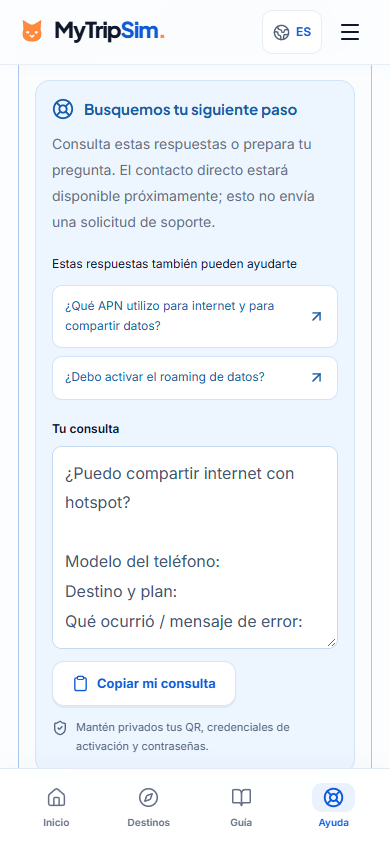
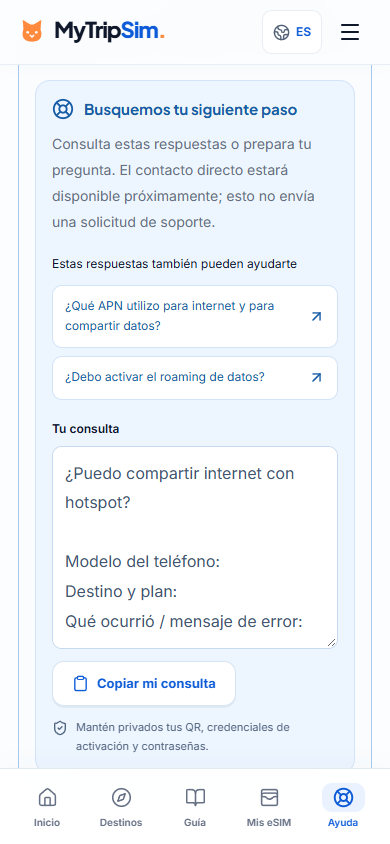
fix: preserve locale context and finalize visual previews

diff --git a/src/components/site-navigation.tsx b/src/components/site-navigation.tsx
@@ -2,7 +2,7 @@
 
 import { useState } from "react";
 import Link from "next/link";
-import { usePathname } from "next/navigation";
+import { usePathname, useSearchParams } from "next/navigation";
 import { ArrowRight, Globe2, Menu, X } from "lucide-react";
 import {
   dictionaries,
@@ -17,11 +17,12 @@ import { experienceCopy } from "@/lib/experience-copy";
 
 export function LanguageSwitcher({ locale }: { locale: Locale }) {
   const pathname = usePathname();
+  const query = useSearchParams().toString();
   const target = locale === "en" ? "es" : "en";
   return (
     <a
       className="language-switch"
-      href={equivalentPath(pathname, target)}
+      href={`${equivalentPath(pathname, target)}${query ? `?${query}` : ""}`}
       onClick={(event) => {
         event.currentTarget.href = `${equivalentPath(pathname, target)}${window.location.search}${window.location.hash}`;
       }}

diff --git a/tests/e2e/journey.spec.ts b/tests/e2e/journey.spec.ts
@@ -103,6 +103,9 @@ test("preview pages protect plan identity, locale context and indexing", async (
     expect(await response.text()).toContain('content="noindex, nofollow"');
   }
   await page.goto(`/en/checkout?destination=japan&plan=${encoded}`);
+  await expect(
+    page.getByRole("link", { name: "Change language: Español" }).first(),
+  ).toHaveAttribute("href", `/es/compra?destination=japan&plan=${encoded}`);
   await page
     .getByRole("link", { name: "Change language: Español" })
     .first()

diff --git a/docs/superpowers/plans/2026-10-24-visual-journey.md b/docs/superpowers/plans/2026-10-24-visual-journey.md
@@ -1,6 +1,6 @@
 # Visual traveler journey implementation plan
 
-> **For agentic workers:** REQUIRED SUB-SKILL: Use superpowers:executing-plans to implement this plan task-by-task. Steps use checkbox (`- [ ]`) syntax for tracking.
+> **For agentic workers:** REQUIRED SUB-SKILL: Use superpowers:executing-plans to implement this plan task-by-task. Steps use checkbox (`- [x]`) syntax for tracking.
 
 **Goal:** Complete a connected bilingual visual journey from destination and plan selection through checkout preview, example eSIM management, installation and a separate administration preview.
 
@@ -32,26 +32,26 @@
 
 **Files:** `src/lib/experience-routes.ts`, `src/lib/experience-copy.ts`, `src/components/experience/plan-detail.tsx`, `src/components/experience/destination-overview.tsx`, `src/app/[locale]/plan/[slug]/[planId]/page.tsx`, existing catalog components and `src/styles/experience.css`.
 
-- [ ] Define localized paths and selected-plan route without putting the full plan catalog in a client bundle.
-- [ ] Add destination section navigation, allowance/duration range and honest coverage/activation details.
-- [ ] Keep quick-look dialog and add a full detail link; build a travel-pass summary and expandable conditions.
-- [ ] Verify exact plan identity, malformed paths, fixed/daily labels and regional unknowns.
+- [x] Define localized paths and selected-plan route without putting the full plan catalog in a client bundle.
+- [x] Add destination section navigation, allowance/duration range and honest coverage/activation details.
+- [x] Keep quick-look dialog and add a full detail link; build a travel-pass summary and expandable conditions.
+- [x] Verify exact plan identity, malformed paths, fixed/daily labels and regional unknowns.
 
 ## Task 2: Checkout preview and eSIM views
 
 **Files:** `src/components/experience/checkout-preview.tsx`, `src/components/experience/esim-wallet.tsx`, `src/components/experience/install-guide.tsx`, `src/components/experience/shared.tsx`, `src/components/experience/experience-page.tsx`, `src/lib/demo-esims.ts`, generic localized page route and navigation.
 
-- [ ] Add connected review/payment-layout/completion preview using read-only fictional buyer information and no payment entry.
-- [ ] Add wallet status filters and details, sample allowance meter, non-scannable QR illustration and installation links.
-- [ ] Add selectable iPhone/Android instruction views referencing confirmed provider FAQ; activation timing remains per-plan.
-- [ ] Add recoverable loading/empty/error examples and keyboard-friendly interactions.
-- [ ] Verify no purchase/provider requests, no payment fields or real identifiers, and successful connected navigation.
+- [x] Add connected review/payment-layout/completion preview using read-only fictional buyer information and no payment entry.
+- [x] Add wallet status filters and details, sample allowance meter, non-scannable QR illustration and installation links.
+- [x] Add selectable iPhone/Android instruction views referencing confirmed provider FAQ; activation timing remains per-plan.
+- [x] Add recoverable loading/empty/error examples and keyboard-friendly interactions.
+- [x] Verify no purchase/provider requests, no payment fields or real identifiers, and successful connected navigation.
 
 ## Task 3: Administration and polish
 
 **Files:** `src/components/experience/admin-preview.tsx`, documentation, tests and capture/audit scripts.
 
-- [ ] Build a separate clearly labeled admin preview with destination search, plan review, content/FAQ and fictional order views, without claiming access control.
-- [ ] Verify bilingual navigation, responsive layouts, touch targets and scoped axe checks on all new screens and states.
-- [ ] Run build, lint, typecheck, unit/browser tests and secret scan; capture/review desktop/mobile screens.
-- [ ] Commit authorized changes, push to the existing repository and confirm Vercel deployment.
+- [x] Build a separate clearly labeled admin preview with destination search, plan review, content/FAQ and fictional order views, without claiming access control.
+- [x] Verify bilingual navigation, responsive layouts, touch targets and scoped axe checks on all new screens and states.
+- [x] Run build, lint, typecheck, unit/browser tests and secret scan; capture/review desktop/mobile screens.
+- [x] Commit authorized changes, push to the existing repository and confirm Vercel deployment.

diff --git a/docs/verification.md b/docs/verification.md
@@ -58,3 +58,15 @@ The production build, ESLint, TypeScript and five catalog/content tests passed. 
 The refreshed responsive/axe audit includes the expanded hotspot answer and “more help” states at 360 and 1440px. It returned no findings. Visual review covered [mobile answer](previews/faq-mobile-answer.png), [mobile next steps](previews/faq-mobile-help.png), [desktop answer](previews/faq-desktop-answer.png) and [desktop next steps](previews/faq-desktop-help.png).
 
 The user confirmed there is no support contact or connected Supabase yet. Votes remain in the browser, with clear wording that they are not sent to the team. More help provides related answers and a copyable question without creating support tickets. No contact details, activation secrets or analytics backend were invented. The image sync also picked up the five additional user-supplied banners for Argentina, Brazil, Colombia, Panama and Peru.
+
+## Connected visual journey — 2026-10-24
+
+The visual skeleton adds full plan details, a review/payment/confirmation preview, a fictional three-trip wallet and detail views, iPhone/Android installation steps, and a separate public administration sample. Plan identity and locale query context are preserved. Checkout/account/admin screens are noindex and never request payment details, submit personal data, create orders or provision eSIMs.
+
+Validation: production build, ESLint, TypeScript, formatting and six unit tests passed. The final 34 desktop/mobile browser scenarios passed. Added coverage includes the end-to-end visual journey without mutation requests, read-only traveler placeholders, confirmation wording, wallet filters/recovery states, installation device tabs, administration search, unknown/mismatched plan 404s, translated query context, noindex metadata and new-screen overflow checks from 320 to 1440px.
+
+The extended audit checks thirteen routes at 320, 360, 390, 430, 768, 1024 and 1440px. Selected axe A/AA checks at 360 and 1440px include payment/confirmation and wallet empty/loading/error states. Initial findings in mobile administration sizing and wallet accessible filter names were corrected; the repeated audit returned no findings.
+
+Reviewed previews: [plan detail](previews/plan-detail-mobile.png), [checkout](previews/checkout-desktop.png), [payment layout](previews/checkout-mobile-payment.png), [confirmation](previews/checkout-mobile-confirmation.png), [wallet](previews/wallet-desktop.png), [eSIM detail](previews/esim-detail-mobile.png), [installation](previews/install-mobile.png) and [administration](previews/studio-mobile.png). New banners for Mexico, Paraguay and Uruguay are linked by the existing image synchronization.
+
+An independent read-only review found no critical or important issues in the visual scope and additionally checked the new screens and administration tabs at 844×390. Its copied-language-link observation was reproduced with a failing href assertion and corrected so the selected plan is present in the rendered anchor, not only click handlers. The final production build and complete 34-scenario browser suite passed after this fix. Six additional supplied images were synchronized, bringing mapped banners to 18; all mapped files passed image metadata validation.

diff --git a/docs/superpowers/plans/2026-10-24-visual-journey-ledger.md b/docs/superpowers/plans/2026-10-24-visual-journey-ledger.md
@@ -8,3 +8,8 @@ Base: `bc9dc75`. Plan: [visual journey](2026-10-24-visual-journey.md).
 - All preview screens preserve the user-approved scope: visual-only, no Supabase, no prices, no purchase or provisioning requests. Cross-linked route components are kept in one implementation commit so the new generic route never imports missing screens.
 - Tasks 1–3 complete: production build passed; ESLint and TypeScript passed; six unit tests passed; final full browser suite passed 34/34. The repeated responsive/axe audit returned `[]` across thirteen routes at seven widths, including payment/confirmation and wallet empty/loading/error states. Both initial accessibility findings are covered by the persisted audit and responsive journey test.
 - Desktop/mobile screenshots were regenerated and visually reviewed for plan details, checkout, wallet, installation and administration. Secret scan checked 342 indexed files without findings. Final independent review follows the implementation commit.
+- Final independent review: no Critical or Important findings; additional landscape checks at 844×390 passed for the new routes and administration tabs. One navigation issue was identified: copying a language-switch URL could drop the selected product because the rendered href omitted its query.
+- Final: Ruling: treat losing selected-product context through a copied language link as requiring correction before publication, despite the reviewer's Minor label. The plan requires context-preserving language links and copying links is normal browser behavior; leaving this unchanged would take travelers to an empty purchase preview. A new href assertion reproduced the issue before the fix.
+- Final: Ruling: payments, authentication, storage, provisioning and real administration protection remain outside this visual-only phase, as the reviewer noted. They must be implemented before any commercial use; this phase exposes fictional previews with explicit labels and no real operations.
+- Additional supplied banners were synchronized: Australia, Canada, China, Egypt, Norway and Puerto Rico. All 18 mapped image files passed image metadata validation. The reviewer did not assess deployment or these late assets; local checks and deployment status are verified separately.
+- Final: fixed copied-language-link context loss — the new href assertion failed with `/es/compra` instead of its selected-plan query, then passed after rendering query parameters into the anchor. Production build passed and the complete browser suite passed 34/34 after the fix. No further review findings remain deferred.

diff --git a/docs/visual-journey.md b/docs/visual-journey.md
@@ -29,6 +29,7 @@ La administración visual es una muestra pública, claramente identificada como 
 - No se generan códigos de activación, credenciales, ICCID, QR funcionales, pedidos ni información personal real.
 - Los estados de consumo y fechas de la cartera son ejemplos visibles, sin conexión a servicios externos.
 - Los nuevos banners de México, Paraguay y Uruguay se vinculan mediante la sincronización de imágenes existente.
+- También se vincularon las imágenes añadidas después de Australia, Canadá, China, Egipto, Noruega y Puerto Rico. Hay 18 banners vinculados en esta entrega.
 
 ## Verificación prevista
 
